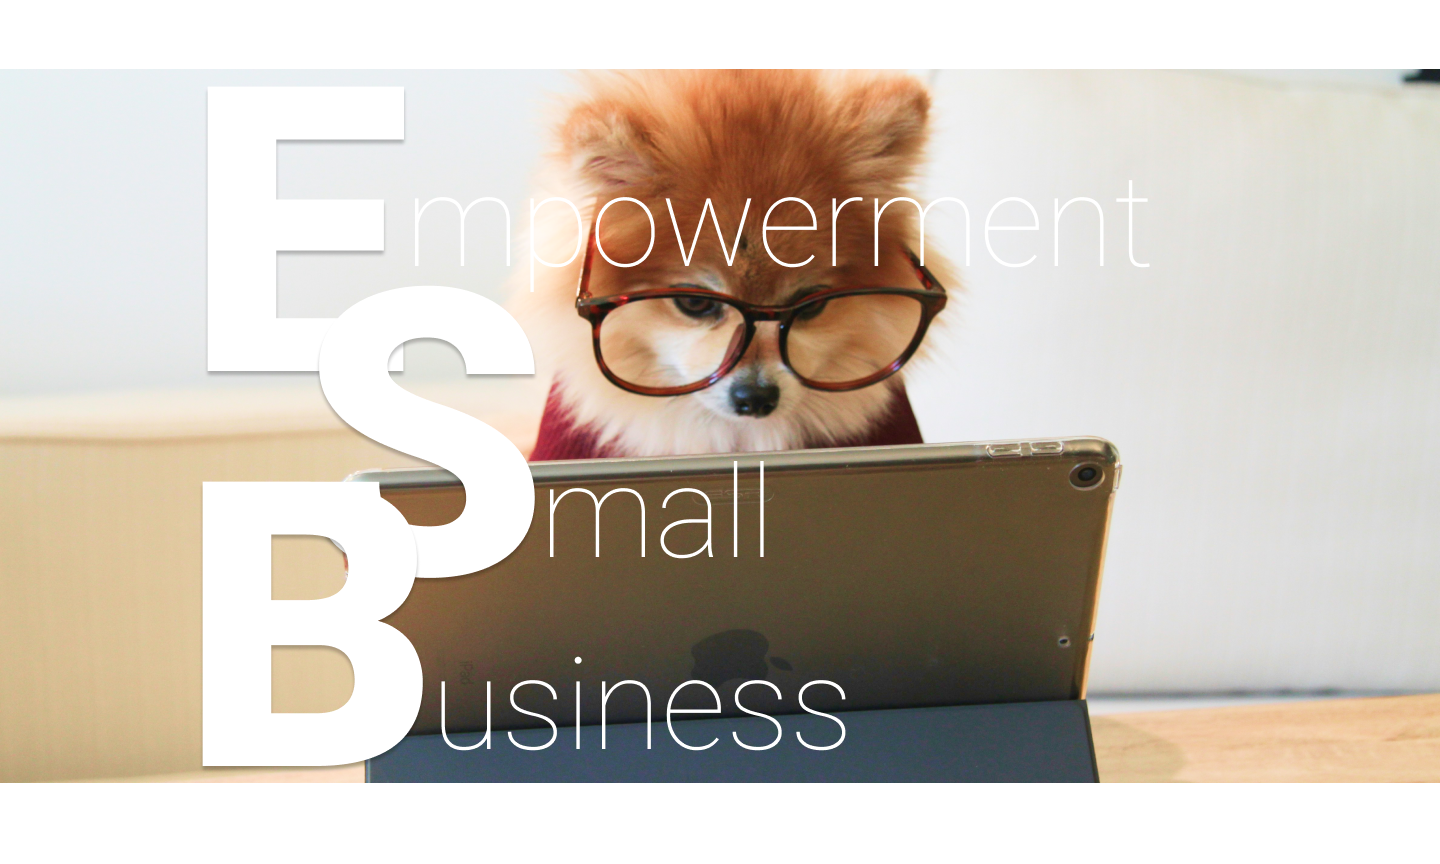
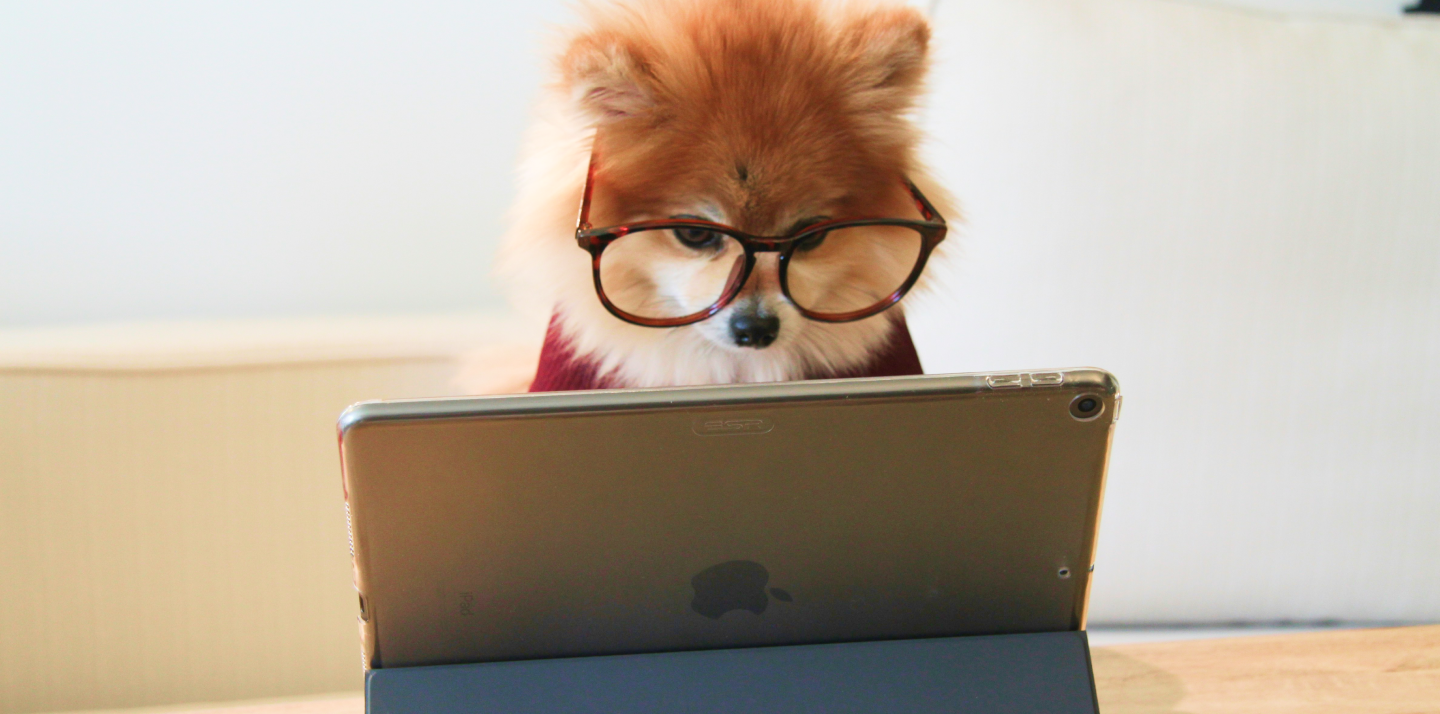
キービジュアルのコーディング

diff --git a/index.html b/index.html
@@ -16,7 +16,7 @@
       h=d.documentElement,t=setTimeout(function(){h.className=h.className.replace(/\bwf-loading\b/g,"")+" wf-inactive";},config.scriptTimeout),tk=d.createElement("script"),f=false,s=d.getElementsByTagName("script")[0],a;h.className+=" wf-loading";tk.src='https://use.typekit.net/'+config.kitId+'.js';tk.async=true;tk.onload=tk.onreadystatechange=function(){a=this.readyState;if(f||a&&a!="complete"&&a!="loaded")return;f=true;clearTimeout(t);try{Typekit.load(config)}catch(e){}};s.parentNode.insertBefore(tk,s)
     })(document);
   </script>
-  
+
 </head>
 <body>
   <div class="wrapper">
@@ -37,7 +37,22 @@
     </header>
 
     <div class="keyvis">
-      <img src="./img/keyvis.png" alt="キービジュアル">
+      <div class="container">
+        <div class="text">
+          <p class="word">
+            <span class="initial">E</span>
+            mpowerment
+          </p>
+          <p class="word">
+            <span class="initial">S</span>
+            mall
+          </p>
+          <p class="word">
+            <span class="initial">B</span>
+            usiness
+          </p>
+        </div>
+      </div>
     </div>
 
     <section class="about">
@@ -56,7 +71,7 @@
               美術系の大学で培ったスキルも活かしながら、<br>
               デザインワークも行なっております。
             </p>
-            <p>APIの導入や複雑な動きのあるサイトなど、少し込み入った実装が得意です。</p>
+            <p>APIの導入や複雑な動きのあるサイトなど、幅広いサイト制作のご要望に対応しています。</p>
             <p>事業をお持ちの皆様方の力になれればと思います。</p>
           </div>
           <figure class="portlait">

diff --git a/css/objects/project.css b/css/objects/project.css
@@ -1,0 +1,32 @@
+.keyvis {
+  position: relative;
+  background-image: url("../../img/keyvis.png");
+  background-size: cover;
+  height: 480px;
+  min-width: 100%;
+  .text {
+    position: absolute;
+    top: 16px;
+    .word {
+      color: var(--color-white);
+      font-size: 80px;
+      font-weight: 200;
+      line-height: .1;
+      &:first-child {
+        * {
+        vertical-align: top;
+        }
+      }
+      &:nth-child(2) {
+        margin-left: 64px;
+      }
+      .initial {
+        filter: drop-shadow(0px 4px 4px rgba(0, 0, 0, .25));
+        font-family: noto-sans;
+        font-size: 240px;
+        font-weight: 900;
+        margin-right: -16px;
+      }
+    }
+  }
+}

diff --git a/style.css b/style.css
@@ -2,9 +2,11 @@
 Theme Name: Azumi's Portfolio Theme
 */
 
-@import "./css/remedy.css";
-@import "./css/variables.css";
-@import "./css/base.css";
+@import "./css/foundation/variables.css";
+@import "./css/foundation/remedy.css";
+@import "./css/foundation/base.css";
+
+@import "./css/objects/project.css";
 
 .wrapper {
   align-items: center;

diff --git a/css/foundation/base.css b/css/foundation/base.css
@@ -1,7 +1,12 @@
-body {
+:root {
   font-family: roboto, noto-sans, sans-serif;
   font-size: 1rem;
+  line-height: 1;
 
+}
+
+figure {
+  margin: 0;
 }
 
 li {
